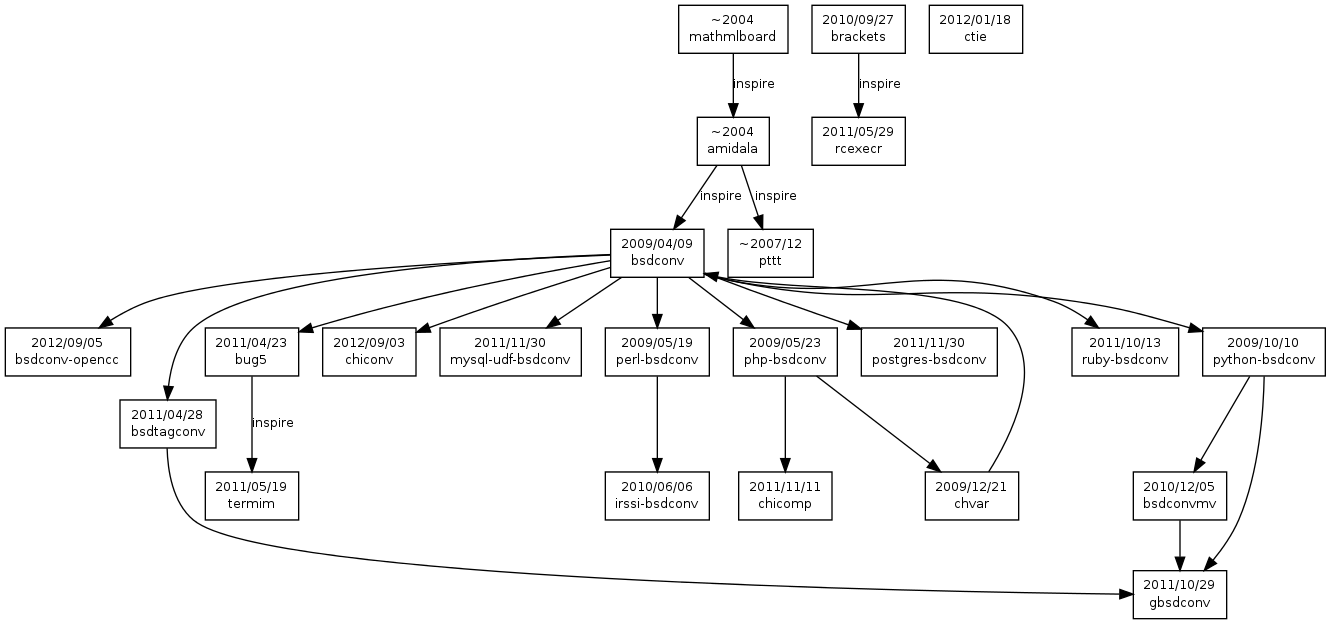
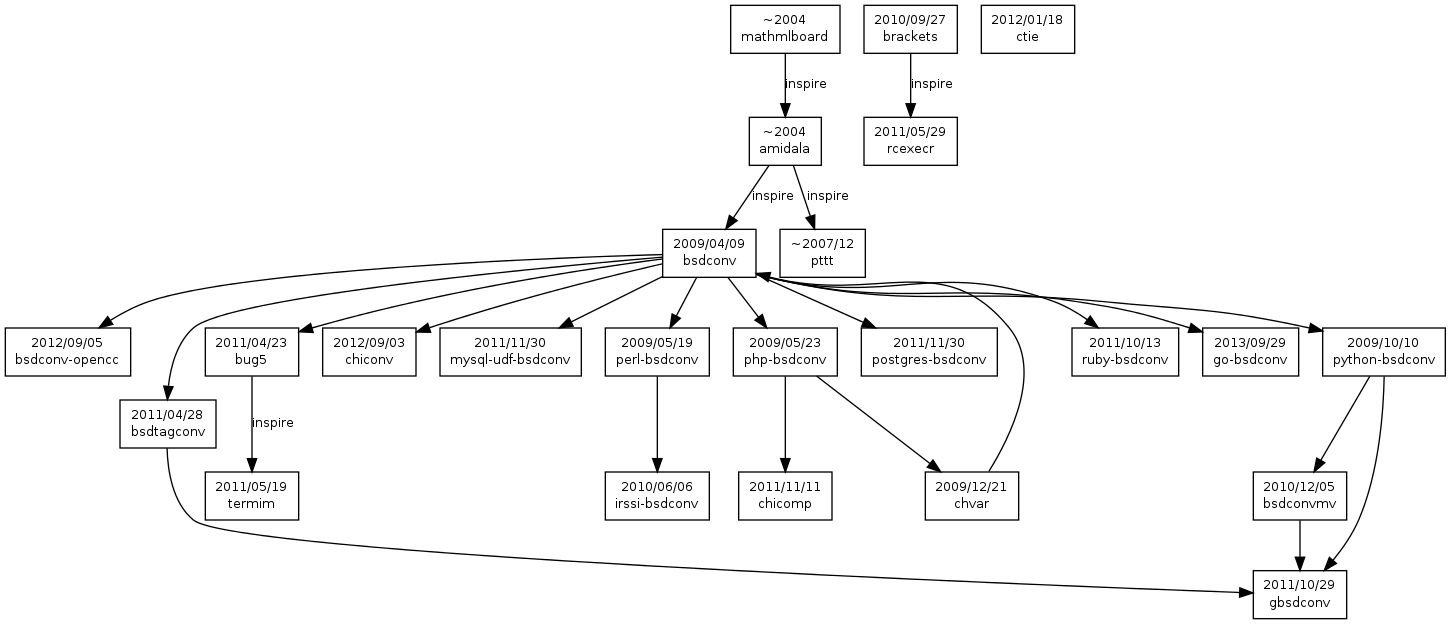
add go-bsdconv

diff --git a/index.html b/index.html
@@ -37,6 +37,7 @@ p{
  2012/01/18	ctie
  2012/09/03	chiconv
  2012/09/05	bsdconv-opencc
+ 2013/09/29	go-bsdconv
 </p>
 </body>
 </html>
